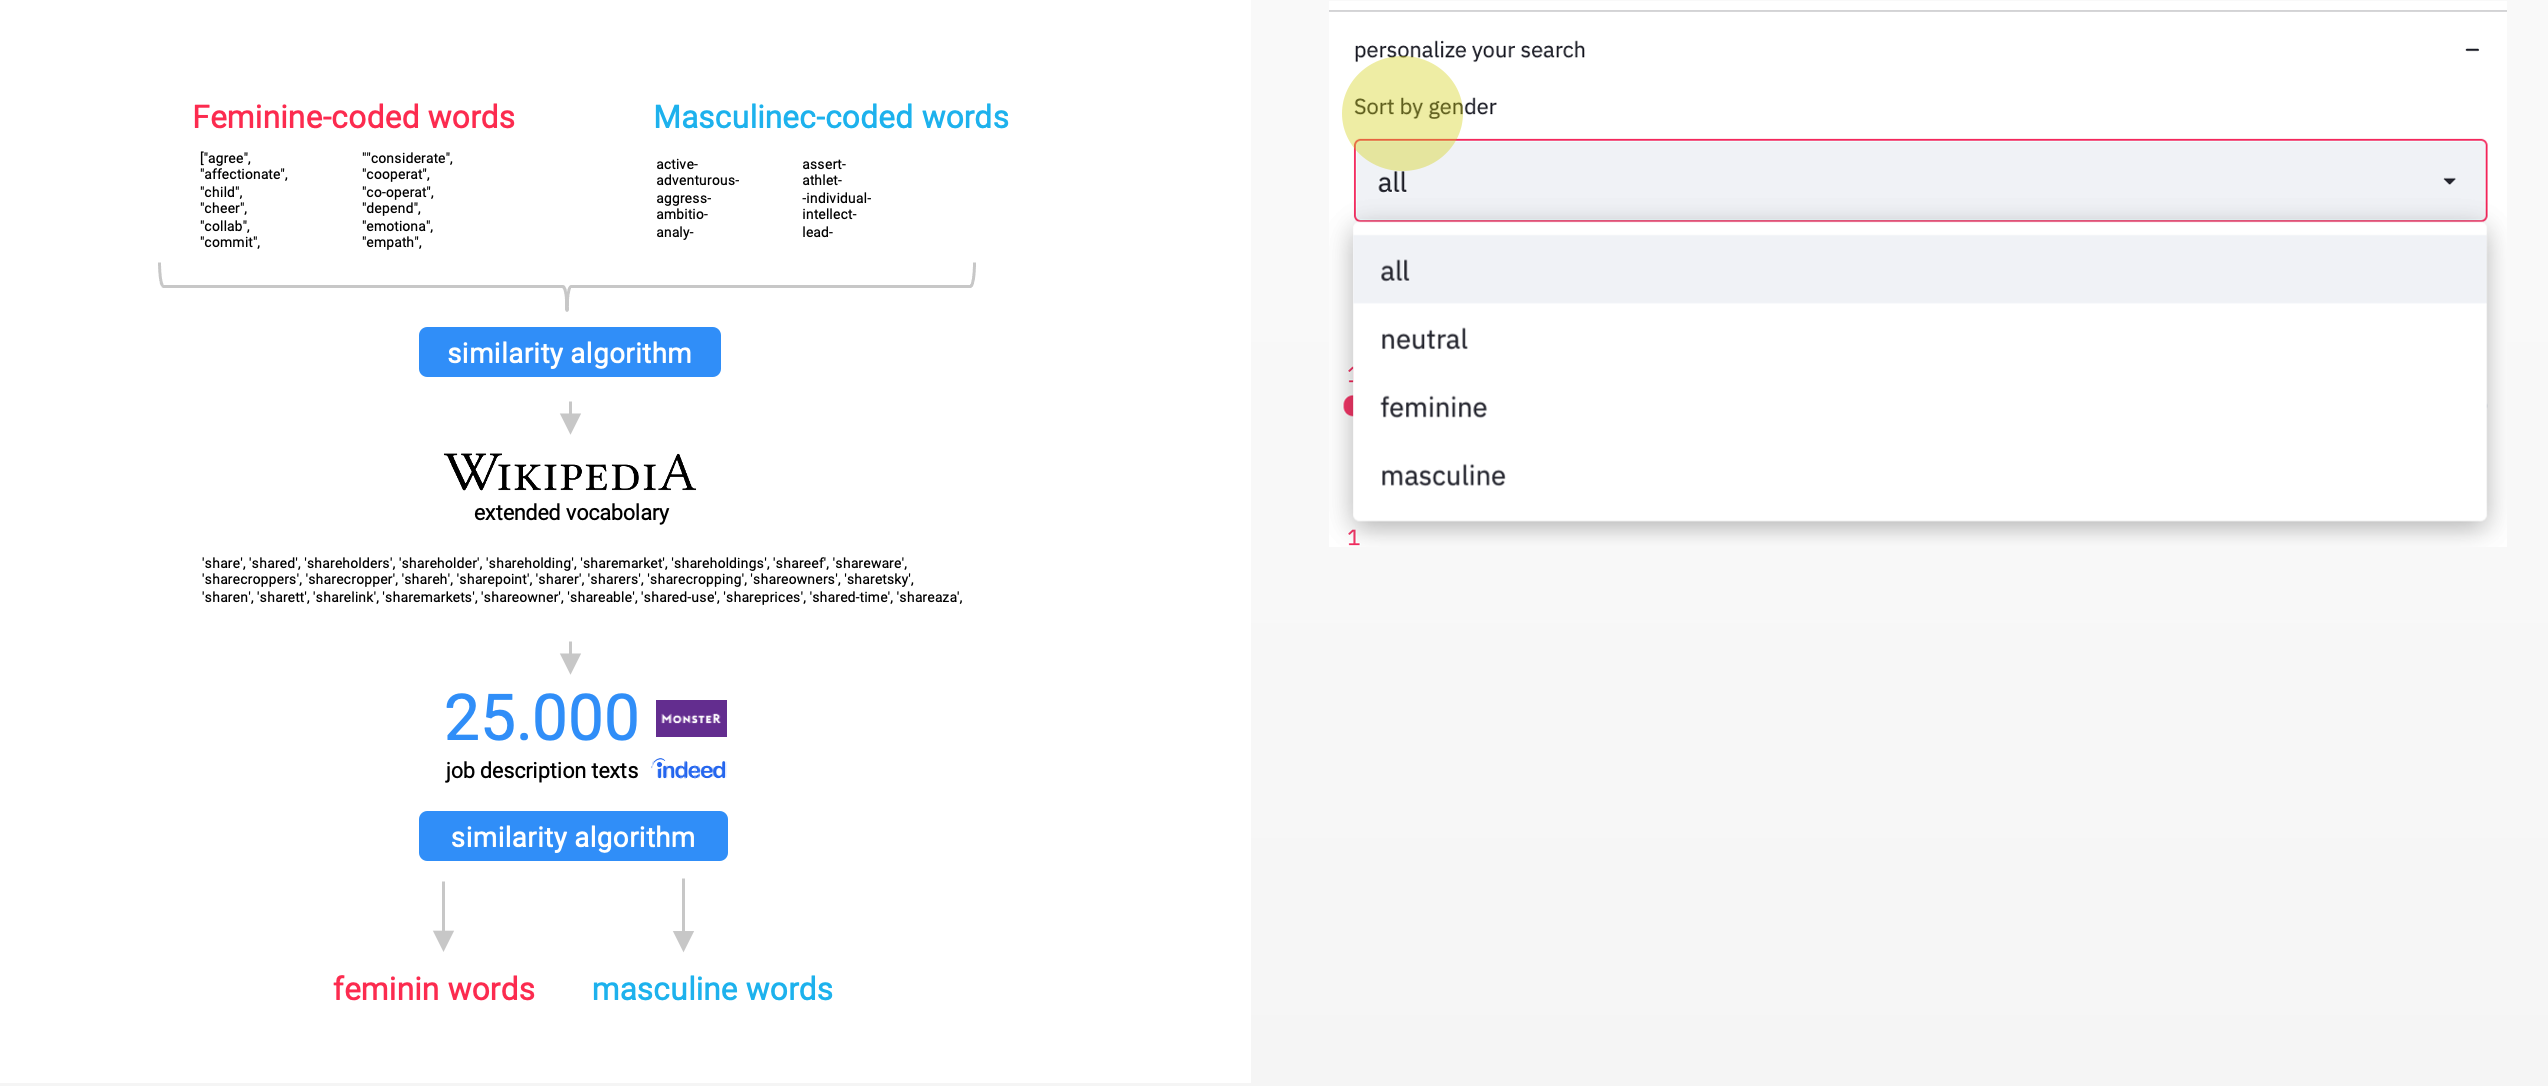
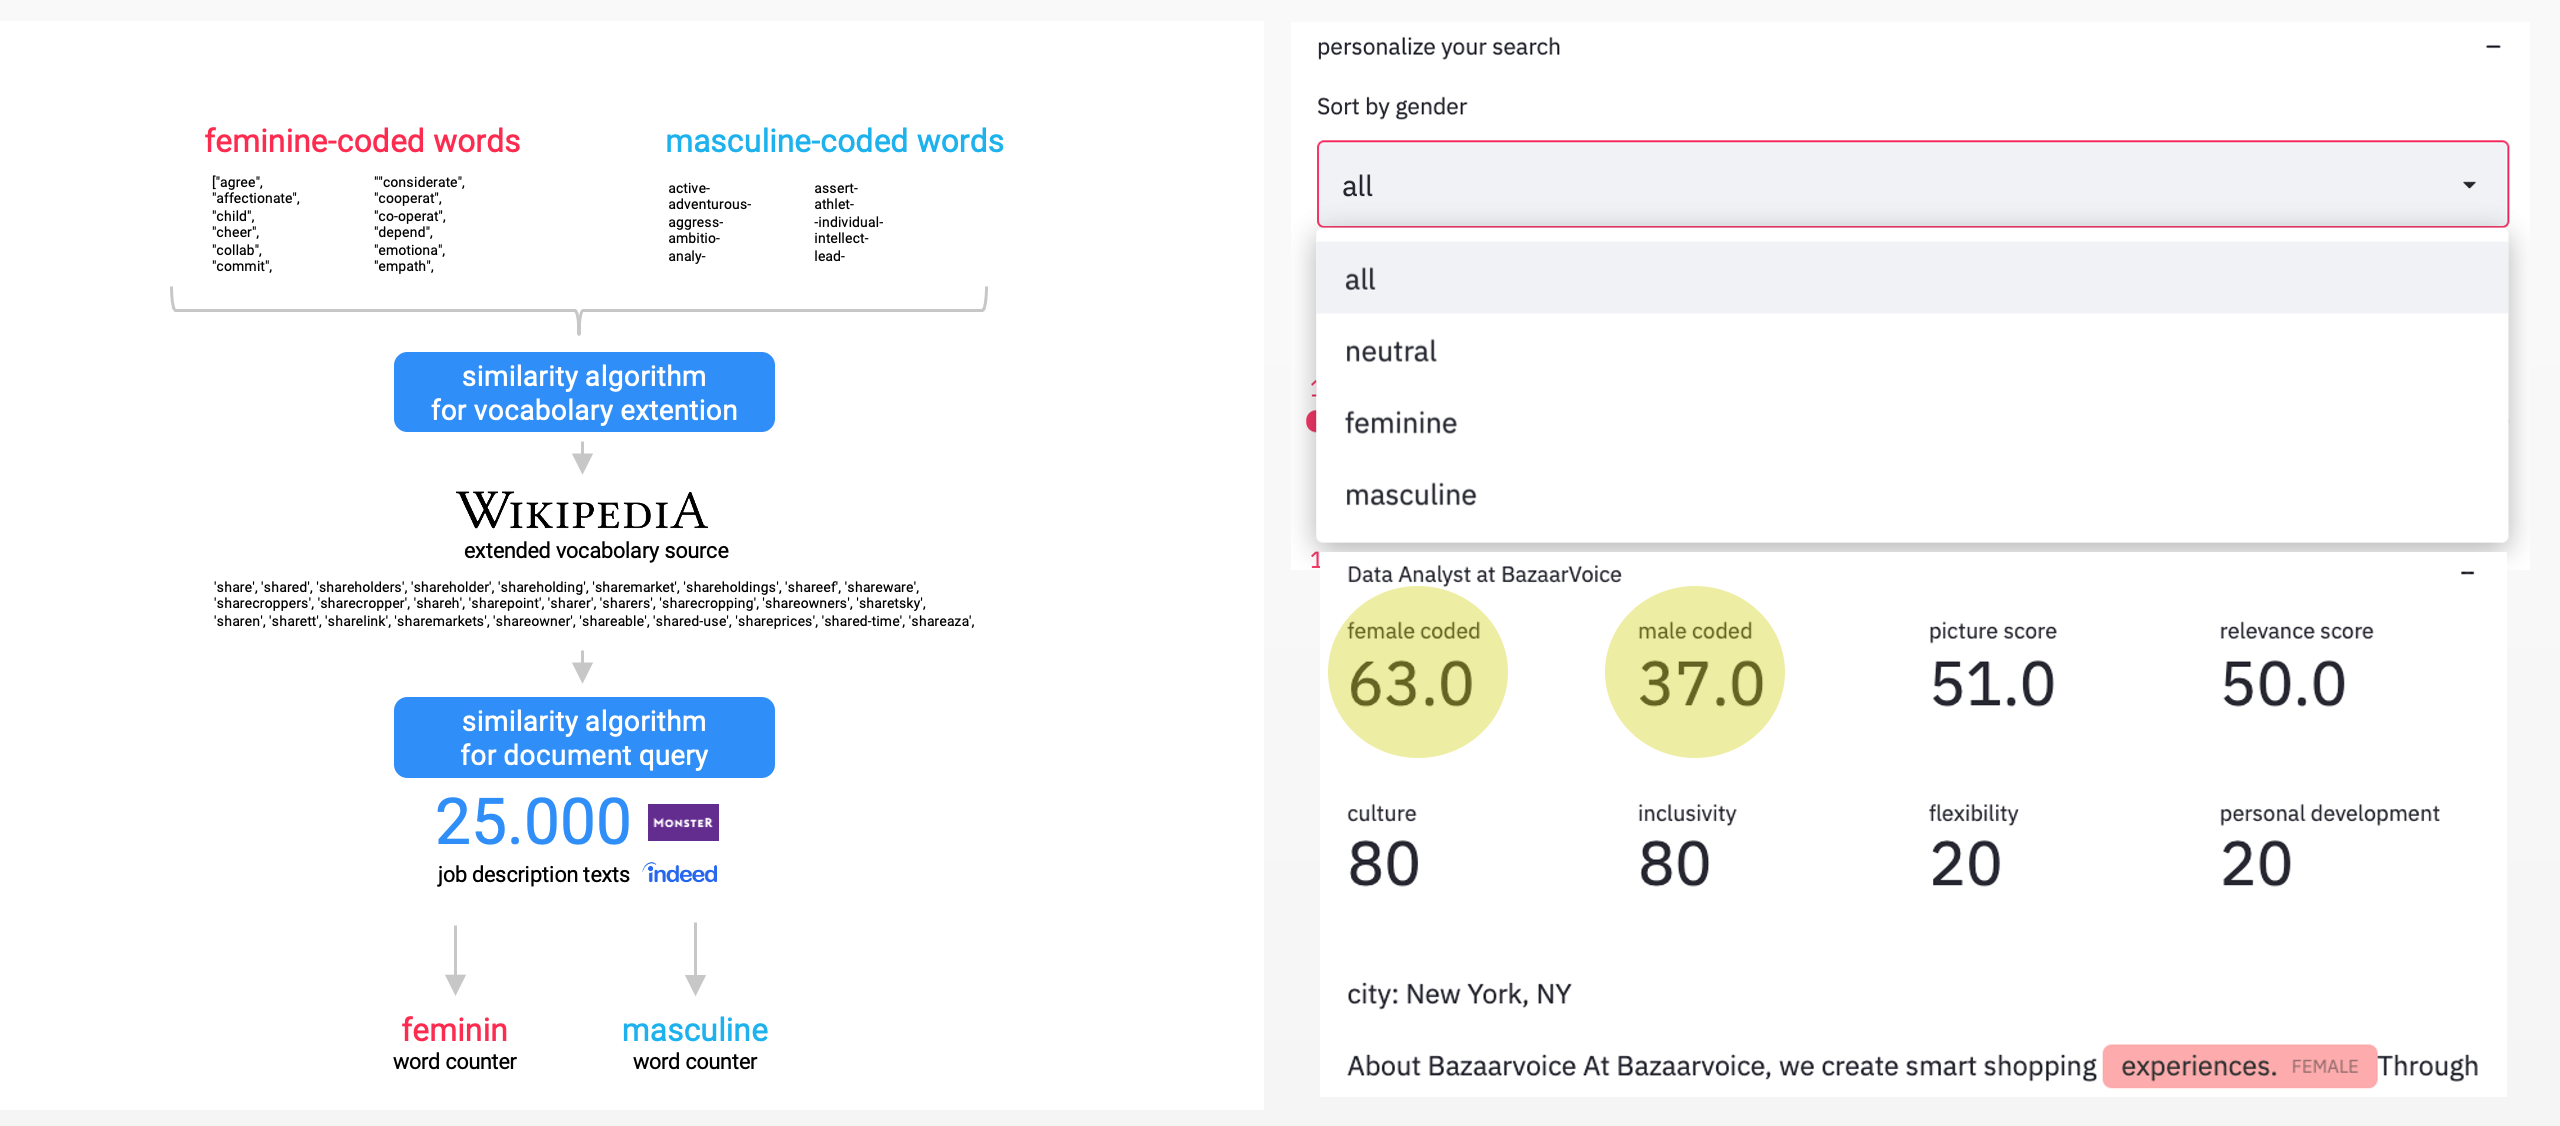
website with dataset on my server and updated technology pictures

diff --git a/fairjobs_web_server.py b/fairjobs_web_server.py
@@ -9,51 +9,38 @@ from nltk.tokenize import word_tokenize
 from annotated_text import annotated_text
 import os
 import streamlit.components.v1 as components
+import urllib.request
+import urllib.request as req
+from ftplib import FTP
+
+# Fetch Data from Alfahosting Server
+ftp = FTP('alfa3049.alfahosting-server.de')  # you need to put in your correct ftp domain
+ftp.login('web230', 'KNU8QUre')  # i don't need login info for my ftp
+ftp.cwd('/html/fairjobs/')
+
+with open('data_data_data_full_df_web_gd.csv', 'wb') as fp:
+    ftp.retrbinary('RETR data_data_data_full_df_web_gd.csv', fp.write)
 
 
-# Fetch Data from Google Cloud (GCP)
+    # req = urllib.request.Request(f"sftp://web230%2540alfa3049@alfa3049.sftp.alfahosting.de/html/fairjobs/data_data_data_full_df_web_gd.csv")
+    # response = urllib.request.urlopen(req)
+    # dataset = response.read()
 
-BUCKET_NAME = "wagon-data-672-fechner"
-storage_filename = "data/data_full_df_web_gd.csv"
-#local_filename = "train_1k_downloaded.csv"
-upload_storage_filename = "data/data_full_df_web_gd.csv"
+    # #Upload Data to Heroku
 
-# create credentials file
-google_credentials_file = os.environ["GOOGLE_APPLICATION_CREDENTIALS"]
+    # PGPASSWORD=<your password> psql -h <your heroku host> -U <heroku user> <heroku postgres database name> -c "\copy bank (ifsc, bank_id, branch, address, city, district, state, bank_name) FROM '<local file path location>' CSV HEADER DELIMITER E'\t';"
 
-if not os.path.isfile(google_credentials_file):
-
-    print("write credentials file 🔥" + f"\n- path: {google_credentials_file}")
-
-    # retrieve credentials
-    json_credentials = os.environ["GOOGLE_CREDS"]
-
-    # write credentials
-    with open(google_credentials_file, "w") as file:
-
-        file.write(json_credentials)
-
-else:
-
-    print("credentials file already exists 🎉")
+    # # Fetch Data from Google Cloud (GCP)
 
 
 def get_data():
 
-    #os.environ[
-    #"GOOGLE_APPLICATION_CREDENTIALS"] = '/Users/renesalmon/code/reneSalmon/fairjobs-324510-bbb3c4c828a9.json'
-    # webpage = url
-    # soup = BeautifulSoup(webpage, "lxml")
-
-    # title = soup.find("meta", proterty="og:title")
-
-    return pd.read_csv(
-        f"gs://wagon-data-672-fechner/data/data_data_full_df_web_gd.csv",
-        converters={
-            'masc_words_list': eval,
-            'fem_words_list': eval,
-            'list_for_annotation': eval
-        })
+    return pd.read_csv('data_data_data_full_df_web_gd.csv',
+                       converters={
+                           'masc_words_list': eval,
+                           'fem_words_list': eval,
+                           'list_for_annotation': eval
+                       })
 
 
 def app():
@@ -123,7 +110,7 @@ def app():
             10,
             help="looks for occurences of the words 'support', 'collaboration', 'team', 'value', 'culture' and similar words in the job description"
         )
-        inclusivity = st.slider('inclusion', 1, 10, help="looks for occurences of the words 'transparent', 'fair', 'inclusive', 'equal' and similar words in the job description")
+        inclusivity = st.slider('inclusivity', 1, 10, help="looks for occurences of the words 'transparent', 'fair', 'inclusive', 'equal' and similar words in the job description")
         flexibility = st.slider('flexibility',
                                     1,
                                     10,
@@ -163,7 +150,7 @@ def app():
         ### SEARCH ENGINE ###
 
         #Import monster job_database to access job_offers
-        #job_database = pd.read_csv('raw_data/data_df_all_3108-20.csv')
+        #job_database = pd.read_csv('data_data_data_full_df_web_gd.csv')
         job_database = get_data()
 
         #Clean job_title column

diff --git a/multi_app.py b/multi_app.py
@@ -3,12 +3,15 @@ import fairjobs_web
 import problem_page
 import Gender_text_decoder
 import gender_picture_decoder
+import fairjobs_web_server
 import Personalizer
+import streamlit.components.v1 as components
 
 PAGES = {
     "problem": problem_page,
-    "solution": fairjobs_web,
-    "product design": Gender_text_decoder,
+    #"solution": fairjobs_web,
+    "solution": fairjobs_web_server,
+    "technology": Gender_text_decoder,
     "team": gender_picture_decoder,
     #"personalizer": Personalizer
 }

diff --git a/Gender_text_decoder.py b/Gender_text_decoder.py
@@ -24,7 +24,9 @@ def app():
     #fairjobs logo
     st.title('How does fairjobs work?')
     st.write('\n')
-    image = Image.open('./images_website/job_offers.png')
+    image = Image.open(
+        './images_website/GenRank_Algorithm.png'
+    )
     st.image(image)
     st.write('\n')
     st.write('\n')
